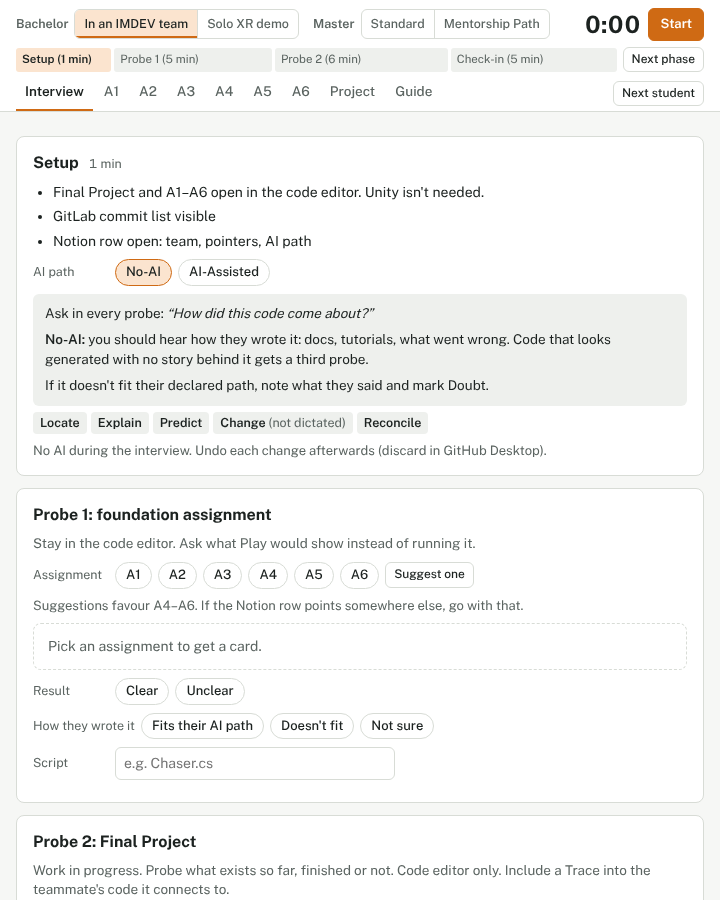
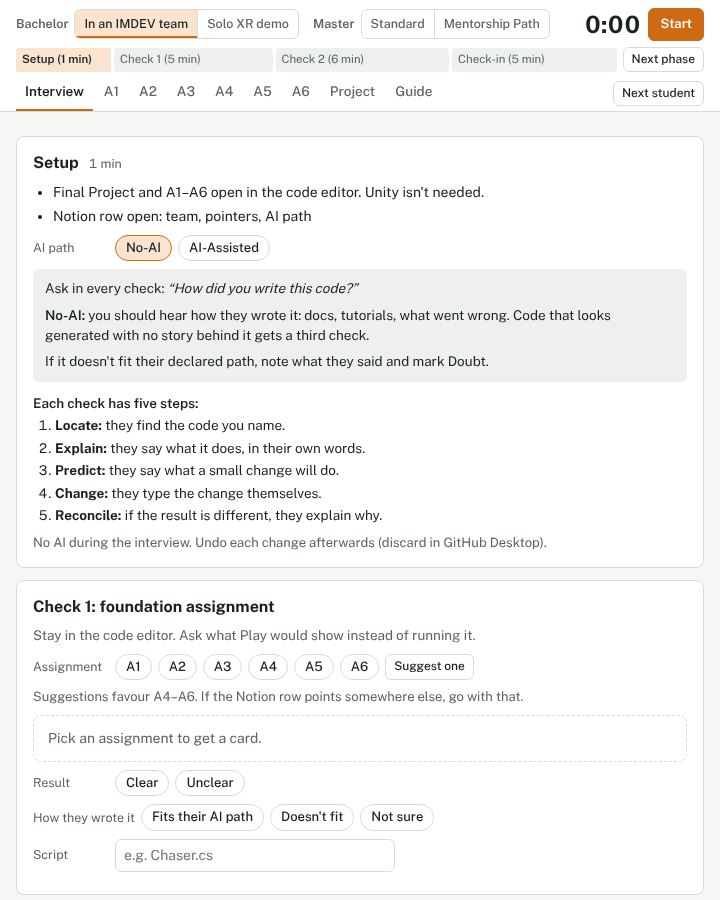
Show the five steps as a plain numbered list instead of button-like chips
Claude-Session: https://claude.ai/code/session_012pZ8E2KigwqxqxQJHujcYw

diff --git a/index.html b/index.html
@@ -94,9 +94,9 @@ main.wrap{padding-top:24px;padding-bottom:48px}
 .note{color:var(--muted);font-size:13.5px;margin:0 0 4px}
 .checks{margin:0;padding-left:20px;font-size:14px}
 .checks li{margin:4px 0}
-.cycle{display:flex;flex-wrap:wrap;gap:4px;margin:6px 0 2px;font-size:12.5px}
-.cycle span{background:var(--sunk);border-radius:4px;padding:2px 7px;color:var(--muted)}
-.cycle span b{color:var(--fg);font-weight:600}
+.cyc-h{margin:12px 0 2px;font-size:13.5px;font-weight:600}
+.cycle{margin:0;padding-left:22px;font-size:13.5px}
+.cycle li{margin:3px 0}
 .row{display:flex;flex-wrap:wrap;gap:6px;align-items:center;margin:8px 0}
 .row .lab{font-size:12.5px;color:var(--muted);min-width:76px}
 .chip{border:1px solid var(--line);background:var(--surface);border-radius:999px;padding:3px 10px;font-size:13px;font-weight:500}
@@ -443,7 +443,14 @@ function renderFlow(){
       <button class="chip" data-act="aipath" data-v="noai" aria-pressed="${S.aiPath==="noai"}">No-AI</button>
       <button class="chip" data-act="aipath" data-v="ai" aria-pressed="${S.aiPath==="ai"}">AI-Assisted</button></div>
     ${aiHint()}
-    <div class="cycle" aria-label="Check cycle">${STEPS.map((s,i)=>`<span><b>${s}</b>${["","",""," (not dictated)",""][i]}</span>`).join("")}</div>
+    <p class="cyc-h">Each check has five steps:</p>
+    <ol class="cycle">
+      <li><b>Locate:</b> they find the code you name.</li>
+      <li><b>Explain:</b> they say what it does, in their own words.</li>
+      <li><b>Predict:</b> they say what a small change will do.</li>
+      <li><b>Change:</b> they type the change themselves.</li>
+      <li><b>Reconcile:</b> if the result is different, they explain why.</li>
+    </ol>
     <p class="hint">No AI during the interview. Undo each change afterwards (discard in GitHub Desktop).</p>
   </section>
   ${probeHTML(0)}
